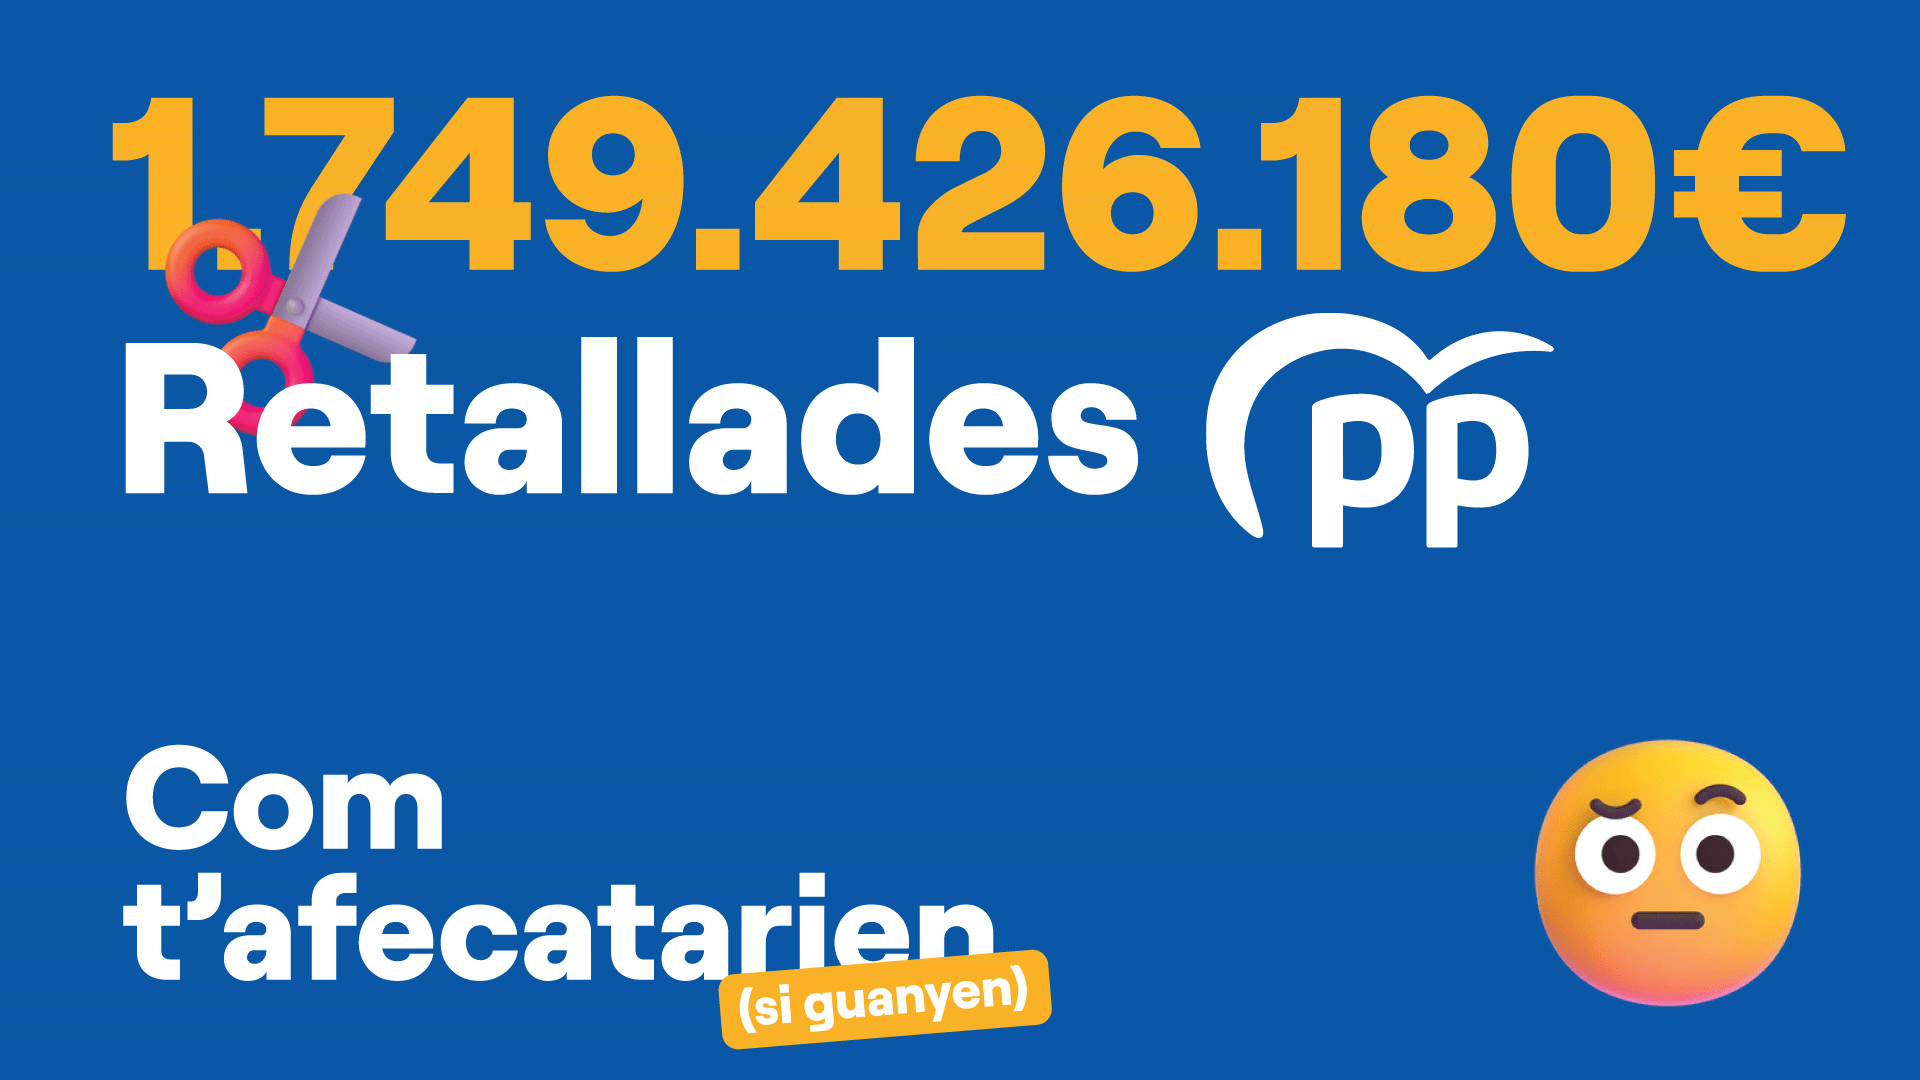
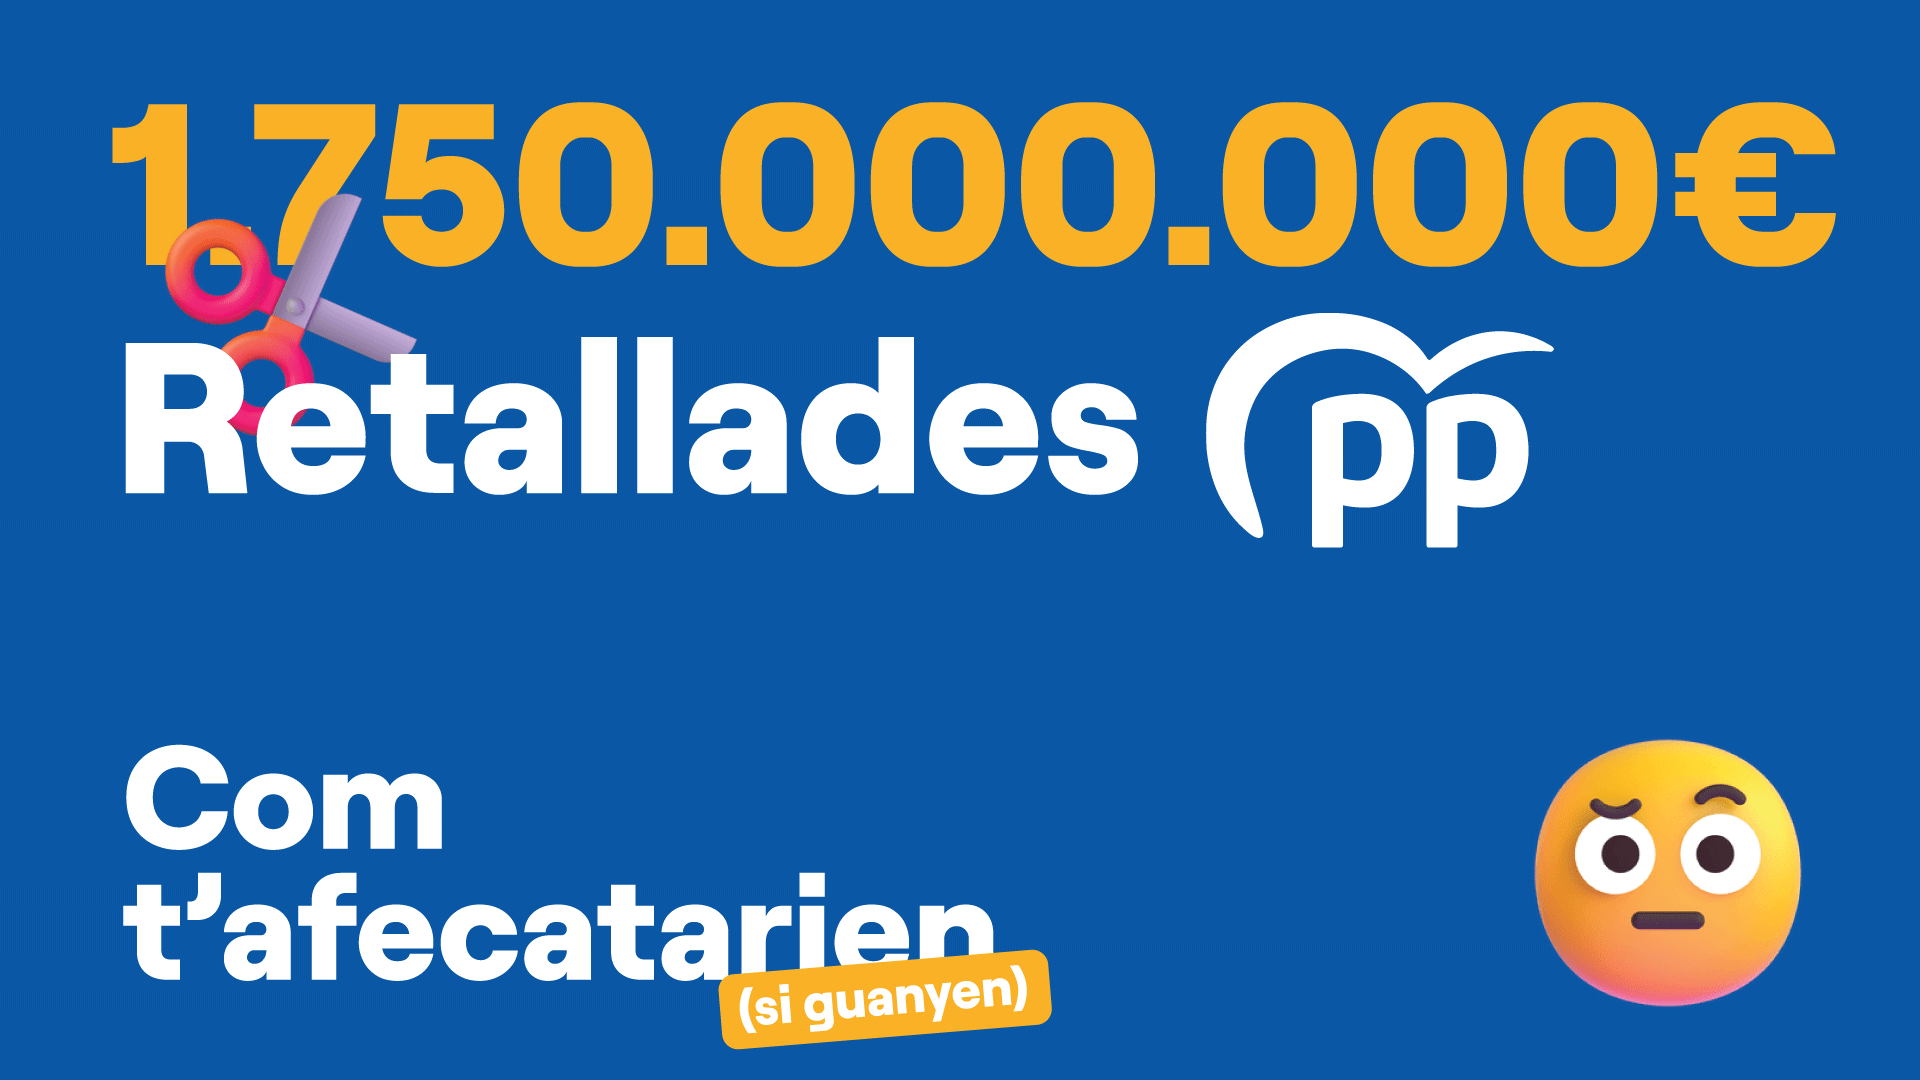
Update number

diff --git a/components/Section/Number.vue b/components/Section/Number.vue
@@ -8,7 +8,7 @@ const { locale } = useI18n()
       <ClientOnly>
         <MarqueeText :duration="35">
           <span class="intro-number">
-            1.749.426.180 €
+            1.750.000.000 €
             <div class="logo-pp first"><img src="~/assets/images/logos/pp.svg" alt="" /></div>
             <img class="logo-pp second" src="~/assets/images/logos/pp.svg" alt="" />
             <img class="logo-pp third" src="~/assets/images/logos/pp.svg" alt="" />
@@ -70,6 +70,7 @@ const { locale } = useI18n()
     letter-spacing: -.02em;
     margin-left: 50vw;
     line-height: 1;
+    transform: translateY(2rem);
 
     .logo-pp {
       position: absolute;
@@ -84,7 +85,7 @@ const { locale } = useI18n()
 
       &.second {
         bottom: 50%;
-        left: 31%;
+        left: 29%;
         transform: rotate(14deg);
       }
 
@@ -96,7 +97,7 @@ const { locale } = useI18n()
 
       &.fourth {
         bottom: 35%;
-        left: 85%;
+        left: 86%;
         transform: rotate(14deg);
       }
     }
@@ -107,14 +108,14 @@ const { locale } = useI18n()
       min-width: 50px;
 
       &.first {
-        top: 9%;
+        top: 7%;
         left: 12%;
         transform: rotate(-64deg);
       }
 
       &.second {
         bottom: 9%;
-        left: 41.5%;
+        left: 43.5%;
         transform: rotate(114deg);
       }
 

diff --git a/components/Animated/Card.vue b/components/Animated/Card.vue
@@ -24,11 +24,10 @@ onMounted(() => {
     y: 50,
     scale: 0.85,
     ease: 'Elastic.easeOut',
+    duration: 1.25,
     scrollTrigger: {
       trigger: '#' + props.id + ' .card-inner',
       start: 'top bottom',
-      end: "+=800",
-      scrub: true,
     },
   })
 })
